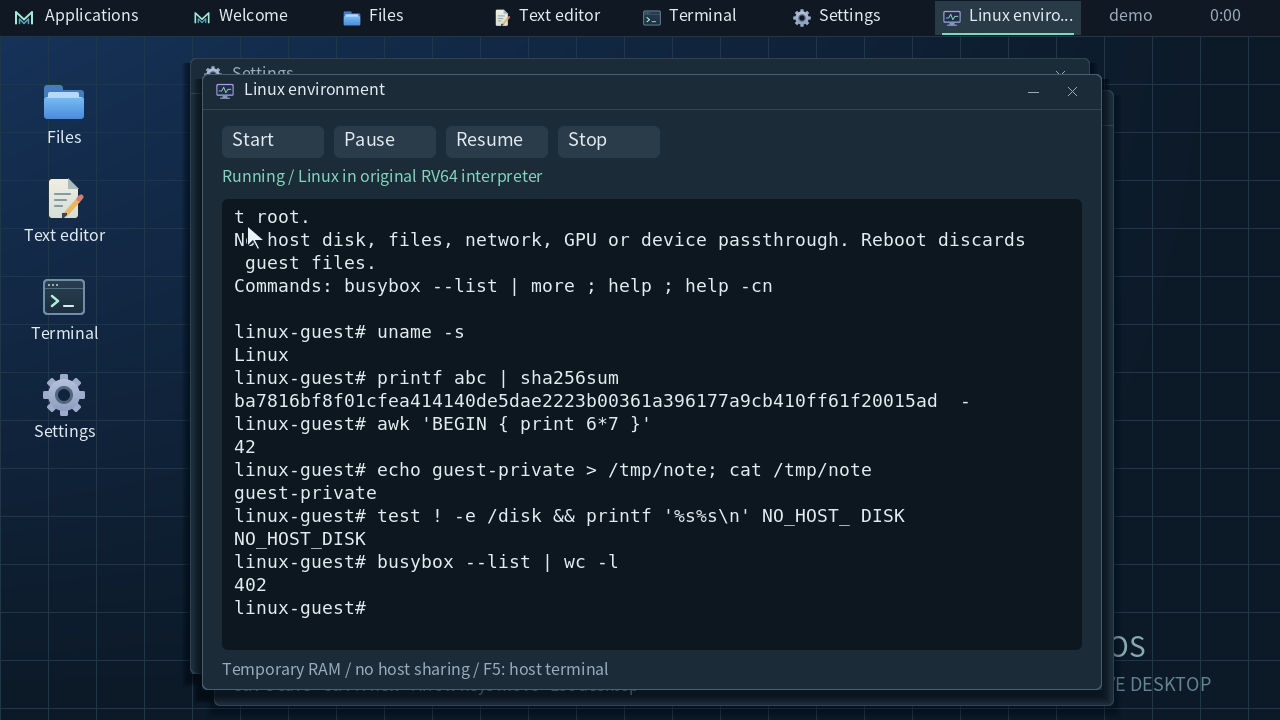
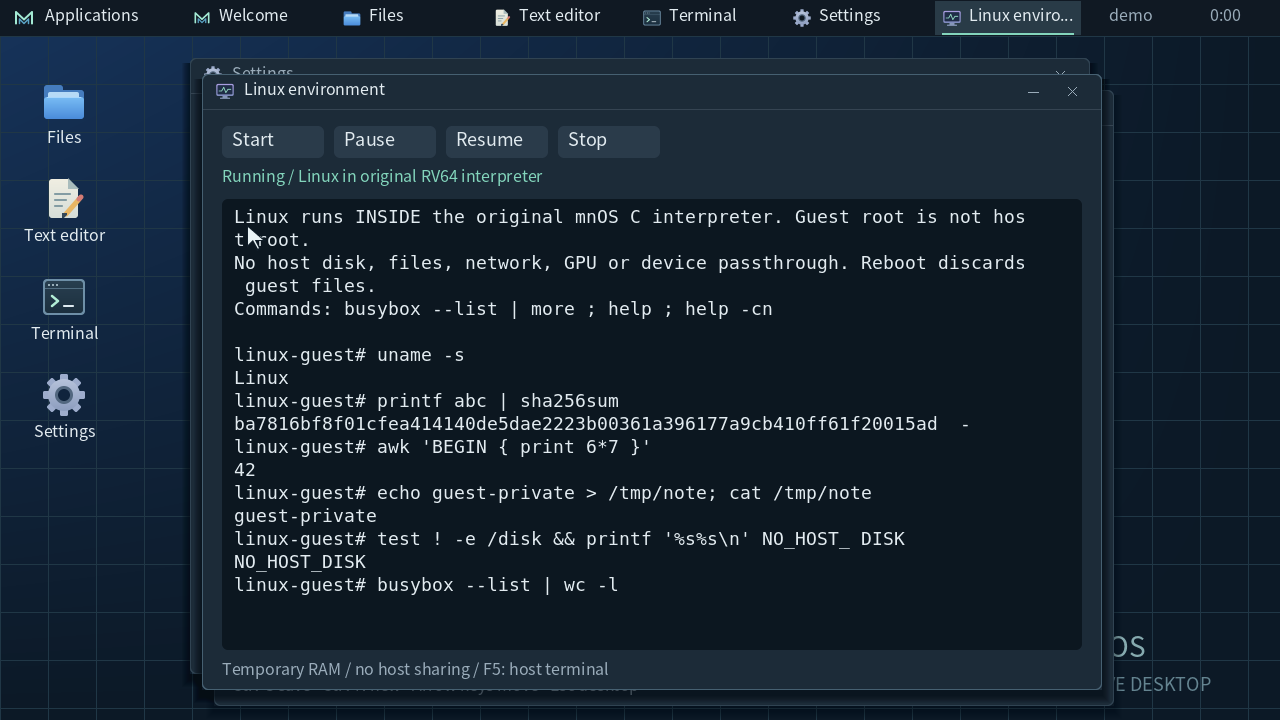
Link the published native edition and show its final tested guest desktop

Changed region(s): [[0.1875, 0.275, 0.8125, 0.8556]]

diff --git a/README.zh.md b/README.zh.md
@@ -3,7 +3,17 @@
 **当前开发分成两版：[自研版与 Linux 版](EDITIONS.zh.md)。** 自研版运行原生 C/汇编内核和 GUI，
 新增自研 C 模拟器中的真实 Linux/BusyBox 客体；Linux 版提供 Firefox、VS Code、完整 CTF 工具
 以及统一系统管理入口。初期客体支持 RV64IMAC/LP64 控制台程序，尚不支持 Linux 图形软件。
-构建、权限、命令和兼容范围见版本说明；以下链接和描述保留为历史发布记录。
+构建、权限、命令和兼容范围见版本说明。
+
+**自研版 0.5 Preview 已发布：**
+[AMD64 安装 ISO](https://github.com/zengyiqian2014-boop/mnOS/releases/download/v0.5-native-preview.1/mnOS-native-0.5-preview.1-amd64.iso)
+· [ARM64 安装 ISO](https://github.com/zengyiqian2014-boop/mnOS/releases/download/v0.5-native-preview.1/mnOS-native-0.5-preview.1-arm64.iso)
+· [校验和、源码和测试范围](https://github.com/zengyiqian2014-boop/mnOS/releases/tag/v0.5-native-preview.1)。
+两架构均通过图形安装、移除 ISO 后磁盘启动，以及在真实 Linux 客体中执行程序的测试。
+
+![原生桌面内运行 Linux 客体程序的实测画面](assets/native-linux-guest.png)
+
+以下链接和描述保留为历史发布记录。
 
 [下载原生图形系统安装 ISO：AMD64 / ARM64](https://github.com/zengyiqian2014-boop/mnOS/releases/tag/v0.4-desktop-preview.2)
 · [安装、操作与测试说明](native/DESKTOP.md)

diff --git a/README.md b/README.md
@@ -9,6 +9,14 @@ Firefox, VS Code, the full CTF suite and a unified C system-management command.
 The guest initially supports RV64IMAC/LP64 console programs, not Linux GUI apps.
 See the edition guide for commands, permissions, build steps and limits.
 
+**Native Edition 0.5 Preview is available:**
+[AMD64 installer](https://github.com/zengyiqian2014-boop/mnOS/releases/download/v0.5-native-preview.1/mnOS-native-0.5-preview.1-amd64.iso)
+· [ARM64 installer](https://github.com/zengyiqian2014-boop/mnOS/releases/download/v0.5-native-preview.1/mnOS-native-0.5-preview.1-arm64.iso)
+· [Checksums, source and tested scope](https://github.com/zengyiqian2014-boop/mnOS/releases/tag/v0.5-native-preview.1).
+Both architectures passed GUI installation, disk boot without the ISO and actual Linux guest commands.
+
+![Actual native desktop executing Linux guest programs](assets/native-linux-guest.png)
+
 The links and description below document earlier published releases.
 
 [Native graphical desktop installer: AMD64 / ARM64](https://github.com/zengyiqian2014-boop/mnOS/releases/tag/v0.4-desktop-preview.2)
